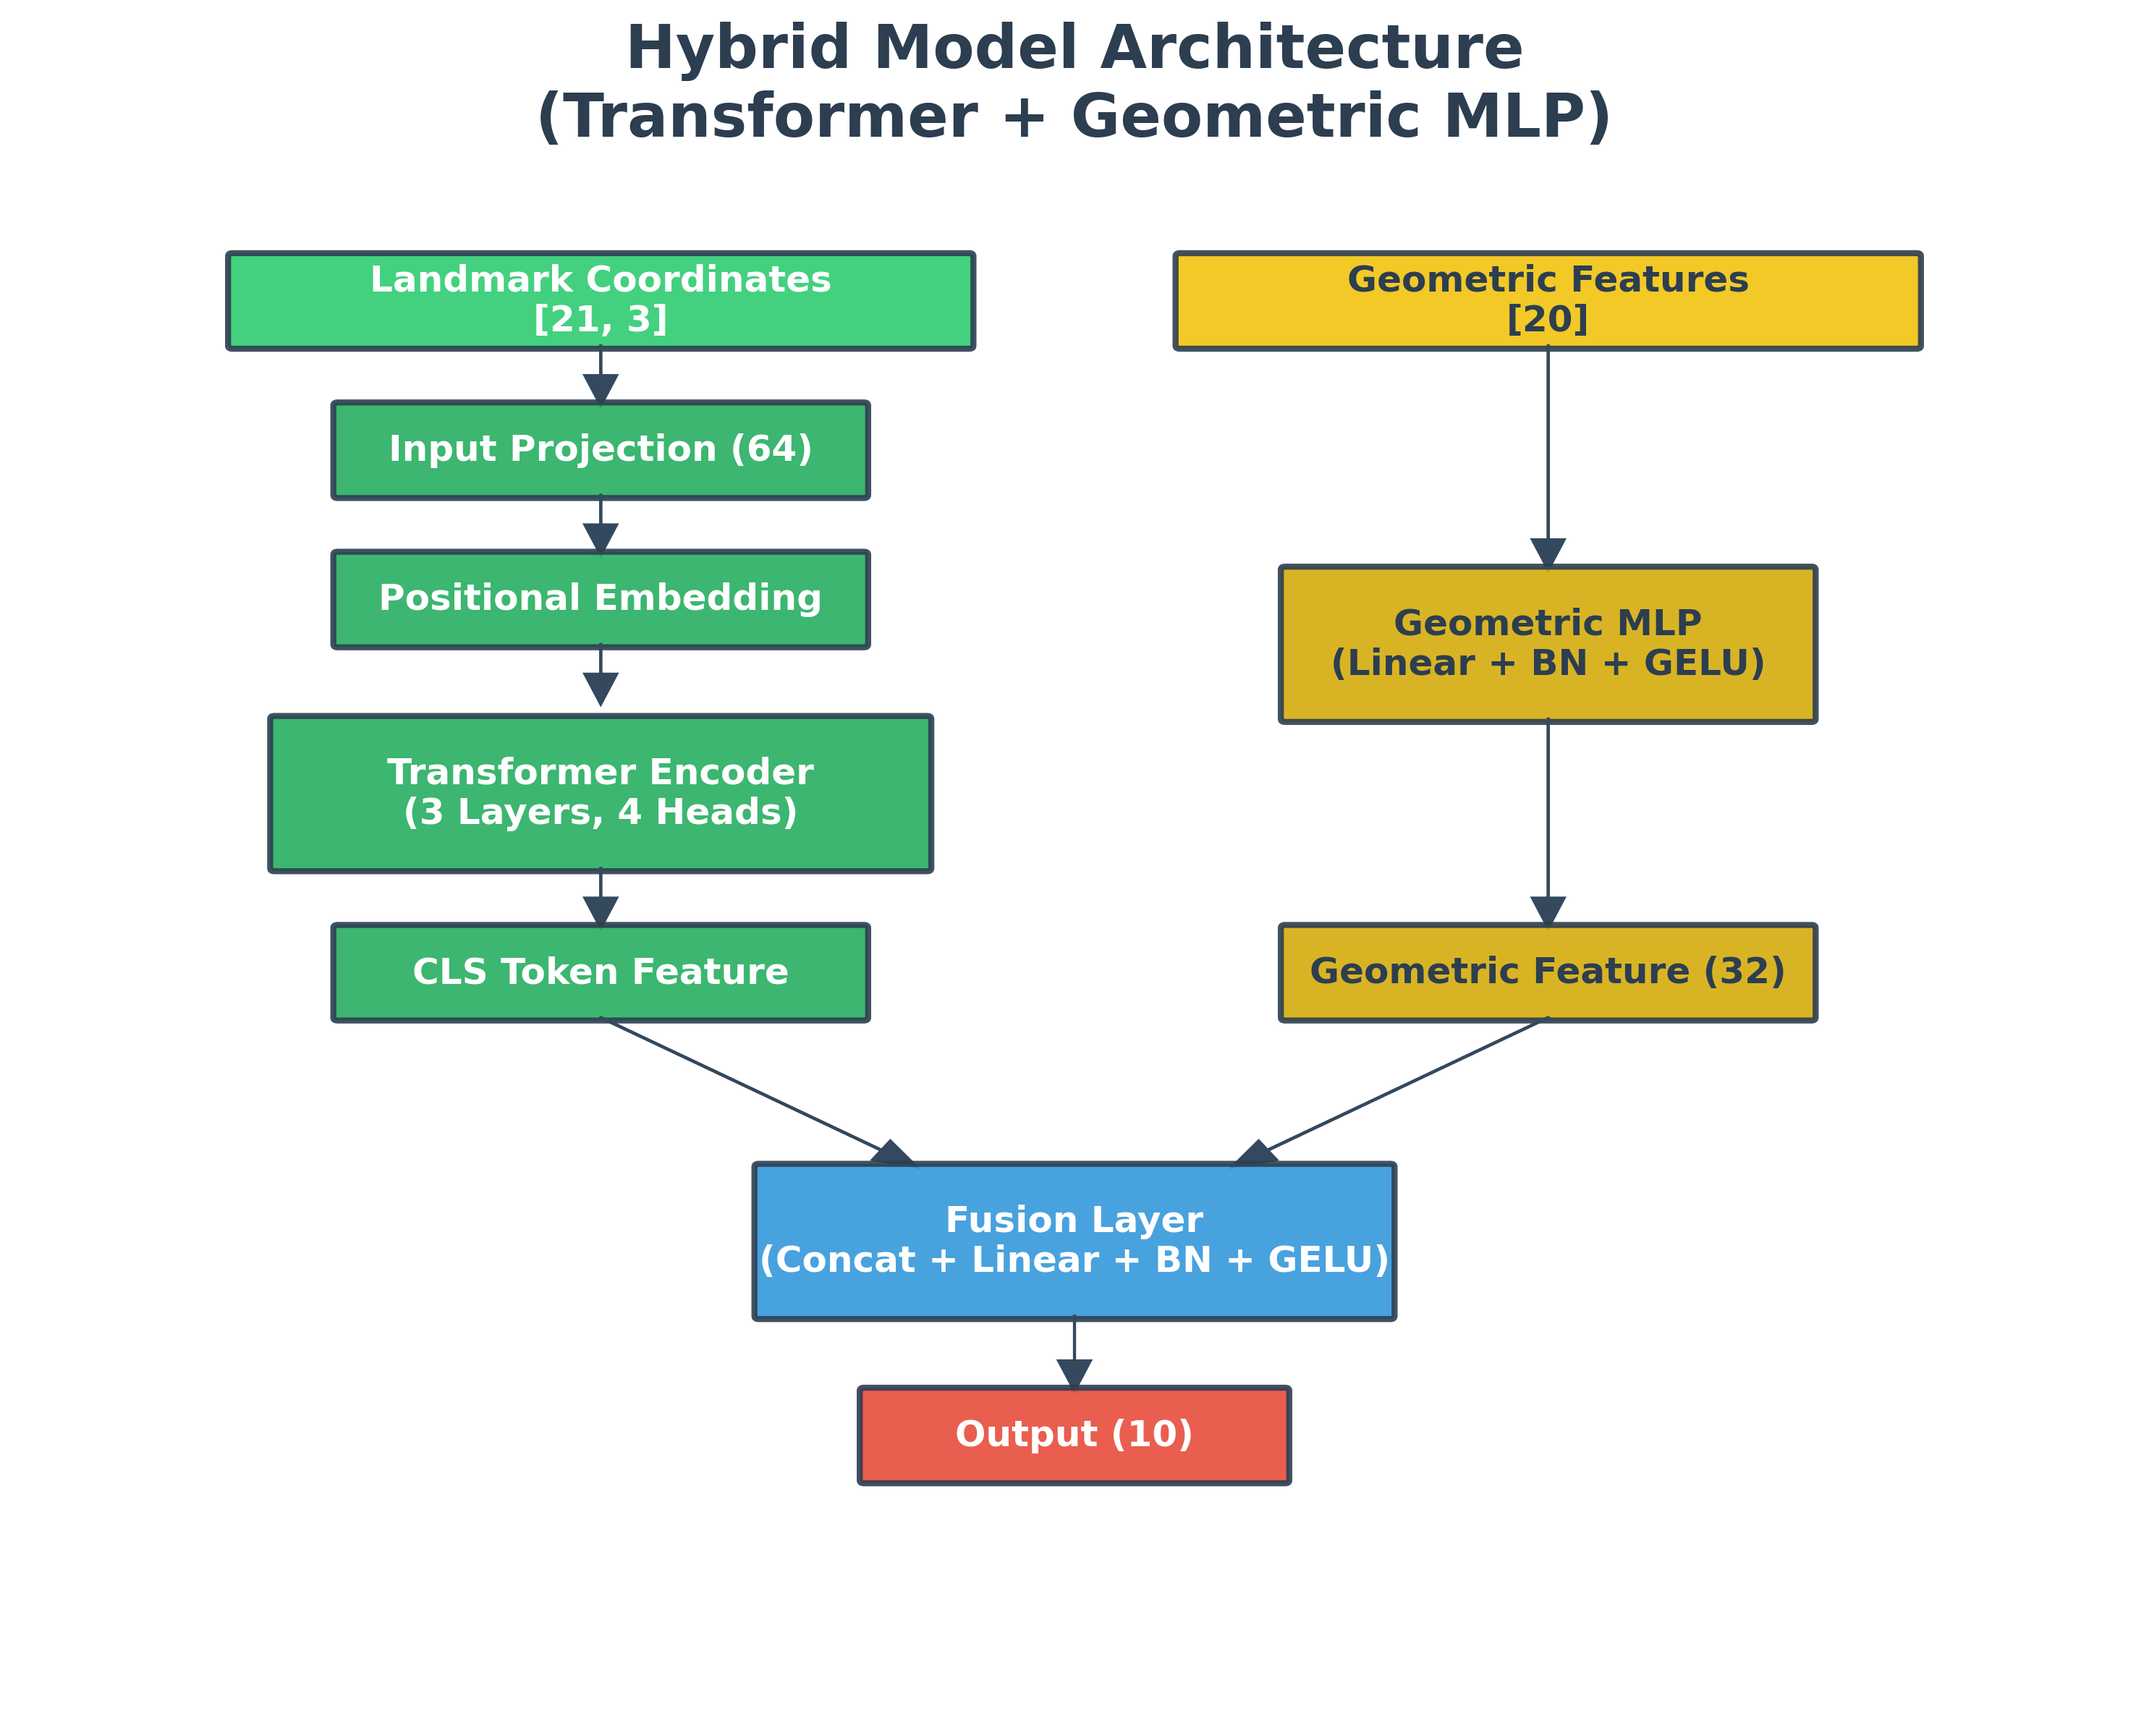
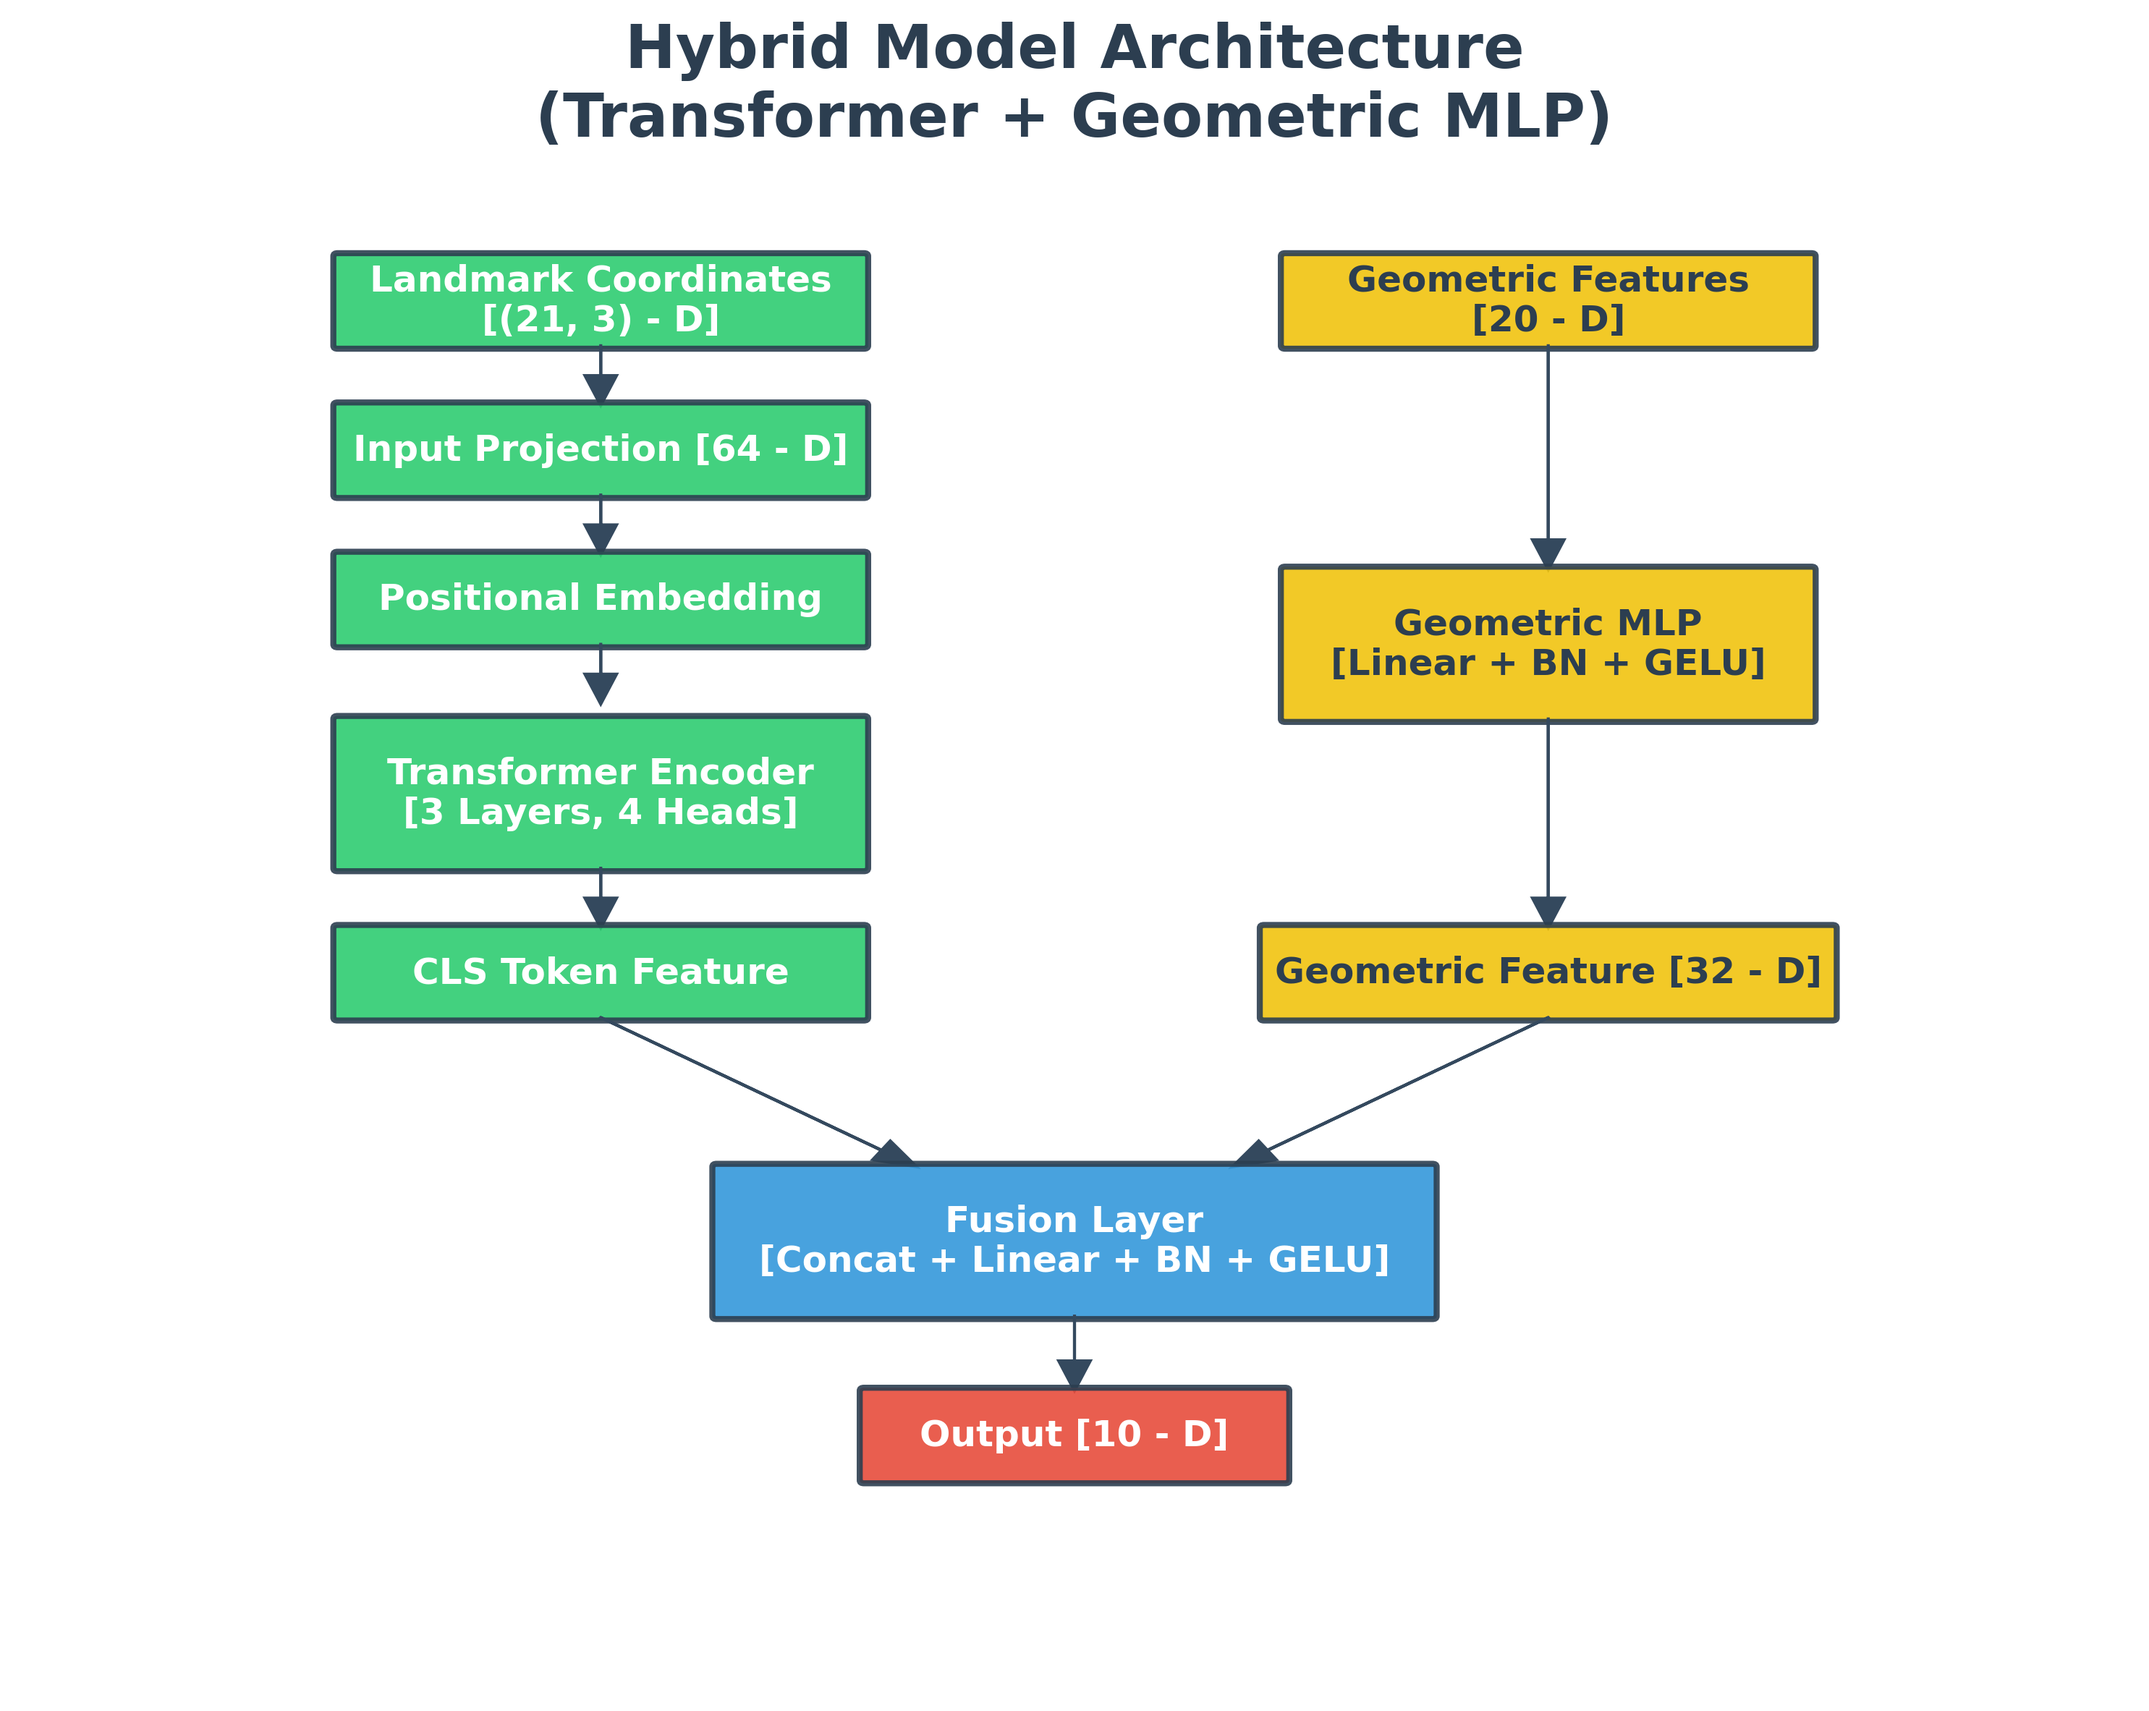
수정

diff --git a/visualize_architectures.py b/visualize_architectures.py
@@ -25,16 +25,16 @@ def visualize_mlp():
     fig, ax = setup_plot("MLP Architecture (Baseline)")
     
     # Input
-    draw_box(ax, 35, 90, 30, 6, "Input (Landmarks + Angles + Dists)\n[81-dim]", color='#95a5a6')
+    draw_box(ax, 30, 90, 40, 6, "Input [Landmarks + Angles + Dists]\n[81 - D]", color='#95a5a6')
     draw_arrow(ax, 50, 90, 0, -4)
     
     # Layers
     layers = [
-        "Linear(81 -> 512) + BN + SiLU",
-        "Linear(512 -> 256) + BN + SiLU",
-        "Linear(256 -> 128) + BN + SiLU",
-        "Linear(128 -> 64) + BN + SiLU",
-        "Linear(64 -> 10) [Output]"
+        "Linear [81 -> 512] + BN + SiLU",
+        "Linear [512 -> 256] + BN + SiLU",
+        "Linear [256 -> 128] + BN + SiLU",
+        "Linear [128 -> 64] + BN + SiLU",
+        "Linear [64 -> 10] [Output]"
     ]
     
     curr_y = 78
@@ -53,31 +53,31 @@ def visualize_hybrid():
     fig, ax = setup_plot("Hybrid Model Architecture\n(Transformer + Geometric MLP)")
     
     # Input splitting
-    draw_box(ax, 10, 90, 35, 6, "Landmark Coordinates\n[21, 3]", color='#2ecc71')
-    draw_box(ax, 55, 90, 35, 6, "Geometric Features\n[20]", color='#f1c40f', text_color='#2c3e50')
+    draw_box(ax, 15, 90, 25, 6, "Landmark Coordinates\n[(21, 3) - D]", color='#2ecc71')
+    draw_box(ax, 60, 90, 25, 6, "Geometric Features\n[20 - D]", color='#f1c40f', text_color='#2c3e50')
     
     # Transformer Stream
     draw_arrow(ax, 27.5, 90, 0, -4)
-    draw_box(ax, 15, 80, 25, 6, "Input Projection (64)", color='#27ae60')
+    draw_box(ax, 15, 80, 25, 6, "Input Projection [64 - D]", color='#2ecc71')
     draw_arrow(ax, 27.5, 80, 0, -4)
-    draw_box(ax, 15, 70, 25, 6, "Positional Embedding", color='#27ae60')
+    draw_box(ax, 15, 70, 25, 6, "Positional Embedding", color='#2ecc71')
     draw_arrow(ax, 27.5, 70, 0, -4)
-    draw_box(ax, 12, 55, 31, 10, "Transformer Encoder\n(3 Layers, 4 Heads)", color='#27ae60')
+    draw_box(ax, 15, 55, 25, 10, "Transformer Encoder\n[3 Layers, 4 Heads]", color='#2ecc71')
     draw_arrow(ax, 27.5, 55, 0, -4)
-    draw_box(ax, 15, 45, 25, 6, "CLS Token Feature", color='#27ae60')
+    draw_box(ax, 15, 45, 25, 6, "CLS Token Feature", color='#2ecc71')
     
     # MLP Stream
     draw_arrow(ax, 72.5, 90, 0, -15)
-    draw_box(ax, 60, 65, 25, 10, "Geometric MLP\n(Linear + BN + GELU)", color='#d4ac0d', text_color='#2c3e50')
+    draw_box(ax, 60, 65, 25, 10, "Geometric MLP\n[Linear + BN + GELU]", color='#f1c40f', text_color='#2c3e50')
     draw_arrow(ax, 72.5, 65, 0, -14)
-    draw_box(ax, 60, 45, 25, 6, "Geometric Feature (32)", color='#d4ac0d', text_color='#2c3e50')
+    draw_box(ax, 59, 45, 27, 6, "Geometric Feature [32 - D]", color='#f1c40f', text_color='#2c3e50')
     
     # Fusion
     draw_arrow(ax, 27.5, 45, 15, -10)
     draw_arrow(ax, 72.5, 45, -15, -10)
-    draw_box(ax, 35, 25, 30, 10, "Fusion Layer\n(Concat + Linear + BN + GELU)", color='#3498db')
+    draw_box(ax, 33, 25, 34, 10, "Fusion Layer\n[Concat + Linear + BN + GELU]", color='#3498db')
     draw_arrow(ax, 50, 25, 0, -5)
-    draw_box(ax, 40, 14, 20, 6, "Output (10)", color='#e74c3c')
+    draw_box(ax, 40, 14, 20, 6, "Output [10 - D]", color='#e74c3c')
     
     plt.tight_layout()
     plt.savefig('arch_hybrid.png', dpi=300, bbox_inches='tight')
